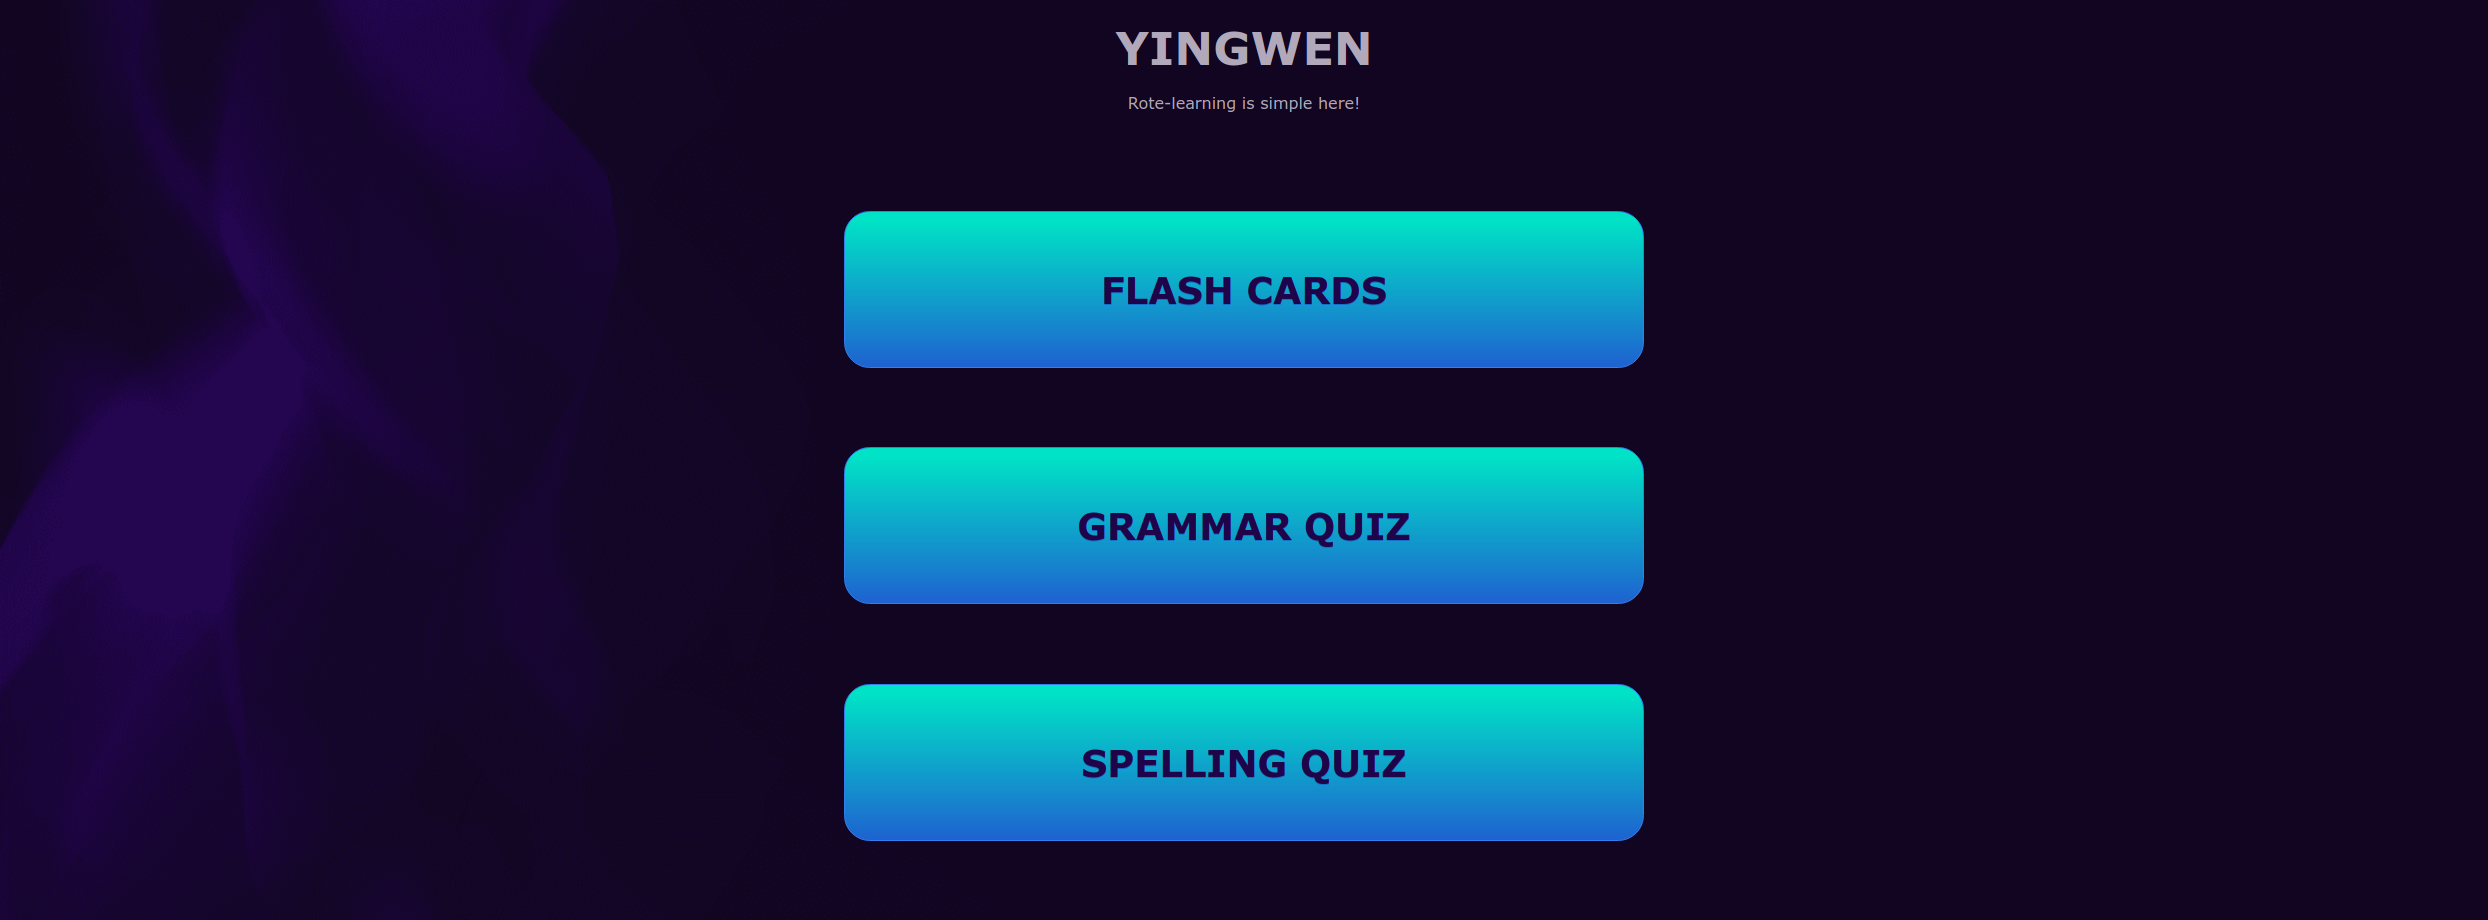
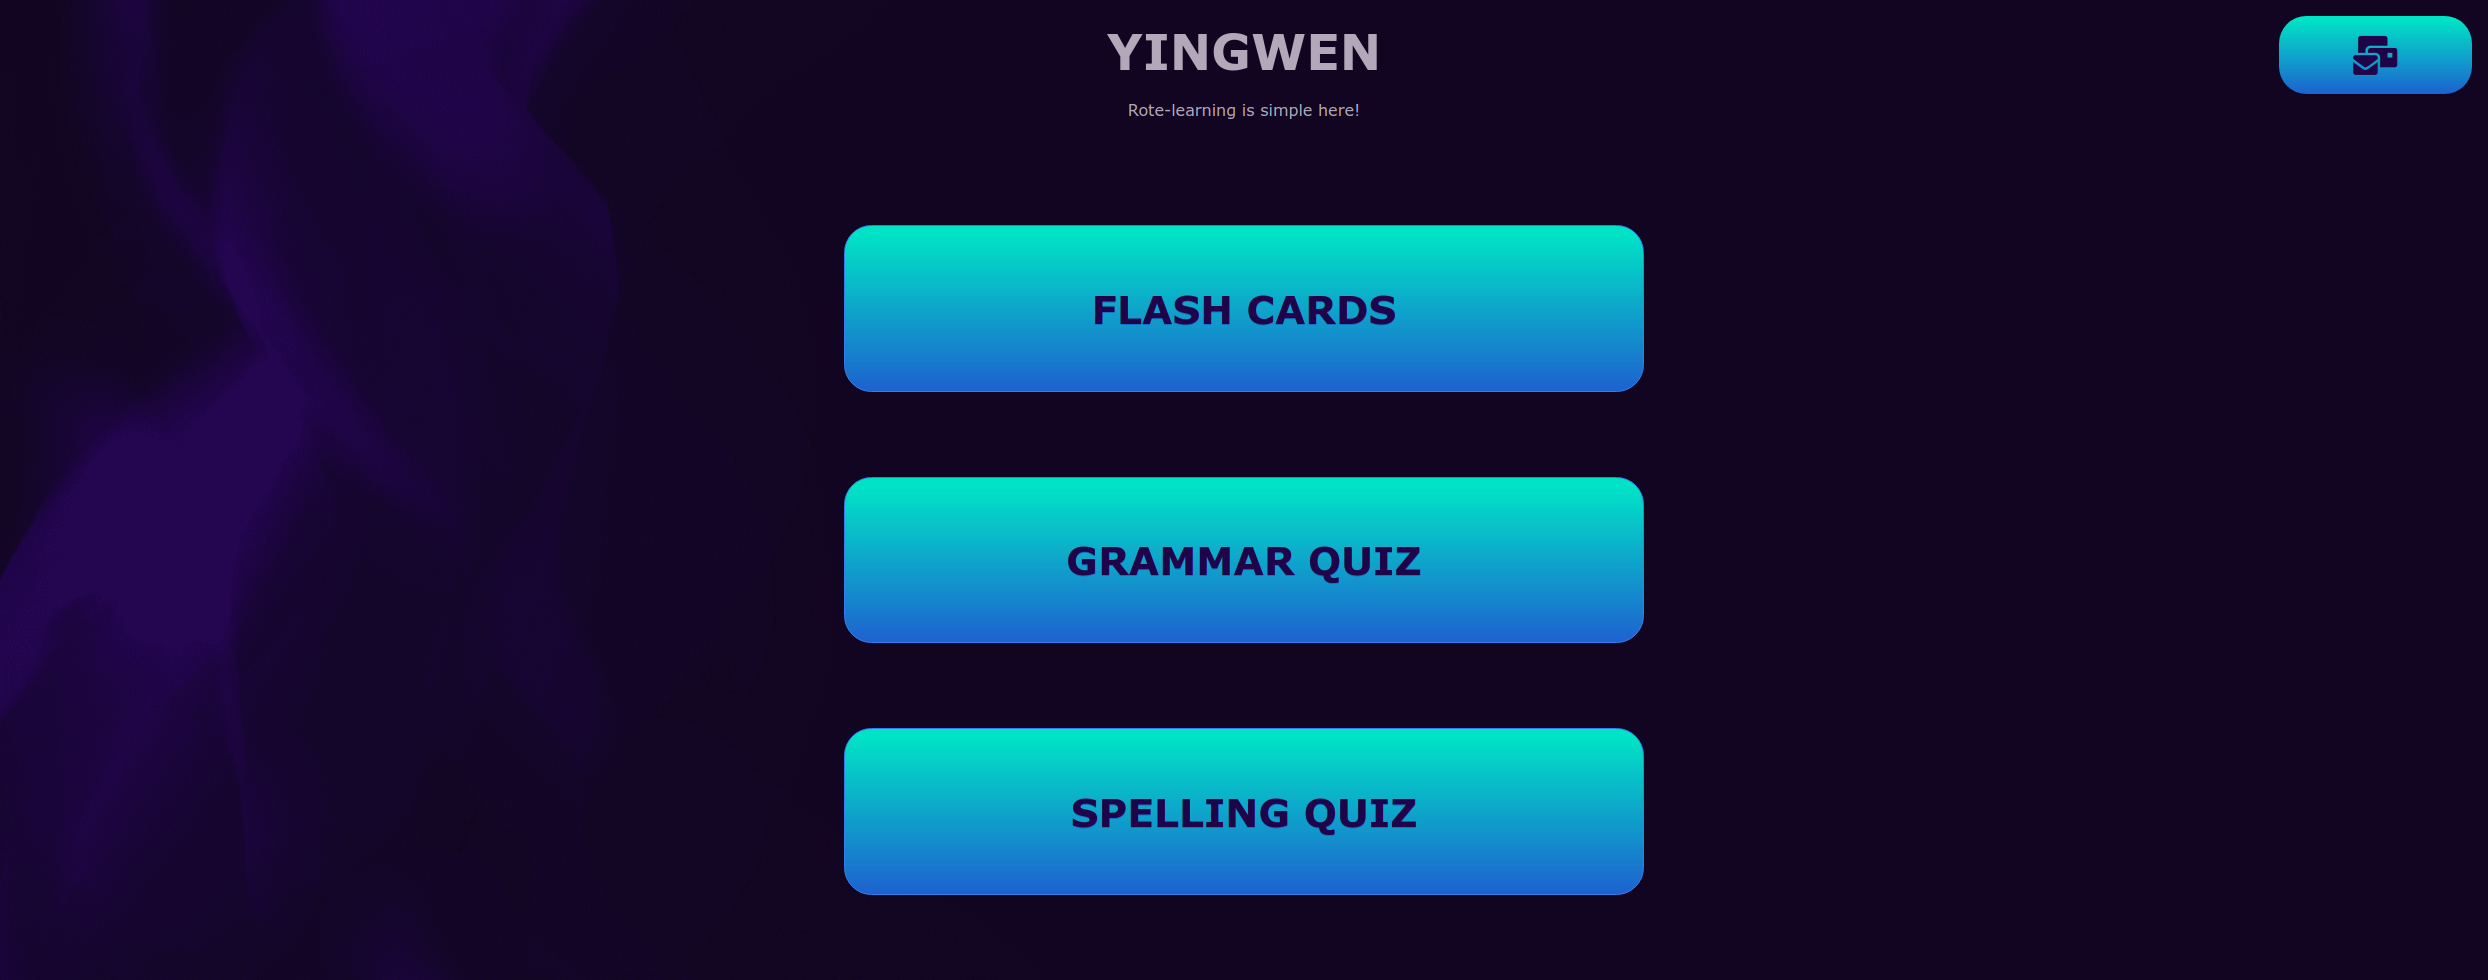
Add content to features section in readme file

diff --git a/README.md b/README.md
@@ -41,13 +41,17 @@ The site can be accessed by this [link](https://iuliiakonovalova.github.io/flash
 
 
 
-    - Menu page has 3 buttons:
+    - Menu page has 3 main buttons:
 
         1. Flash Cards Button leads to the page where the user can learn and practice English vocabulary;
 
         1. Grammar Quiz Button leads to the page where the user can learn and practice English grammar;
 
         1. Spelling Quiz Button leads to the page where the user can practice spelling of English words.
+
+    - It also has a button at the top right corner of the screen, which opens modal window with contact information;
+
+    ![Flash Card Page](documentation/app_features/menu_page_contact_screenshot.png)
 
 ---
 
